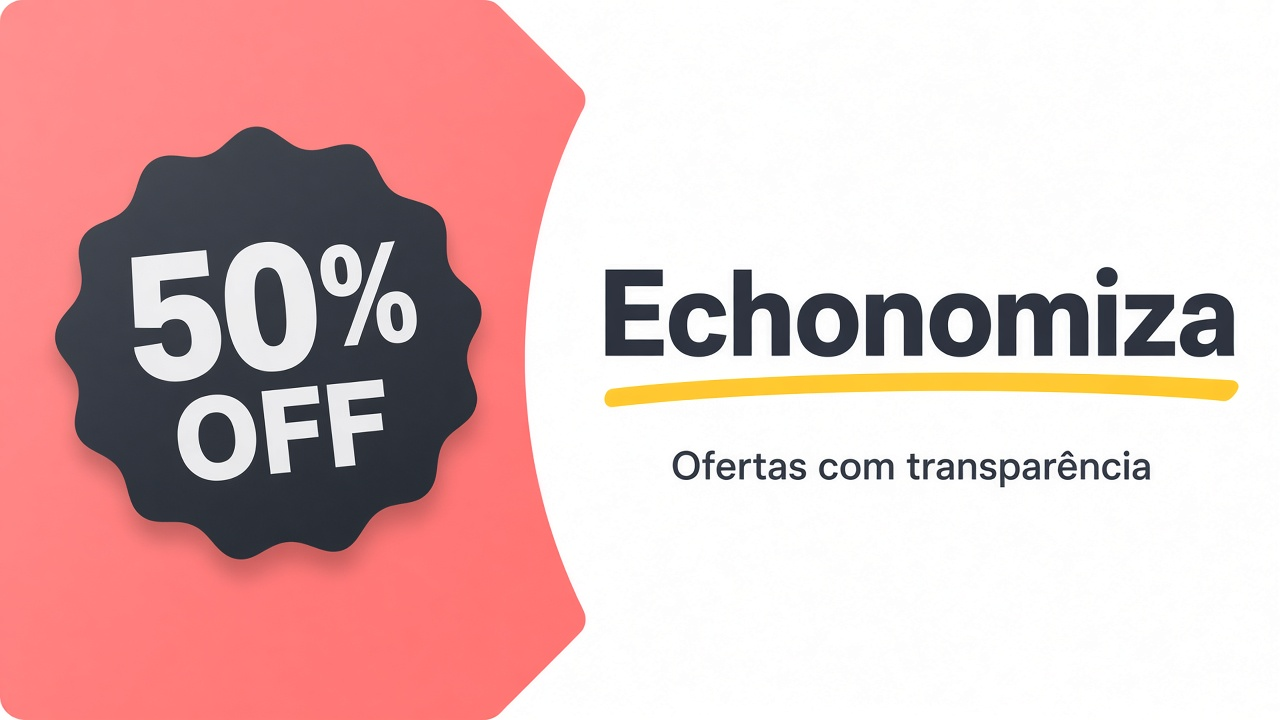
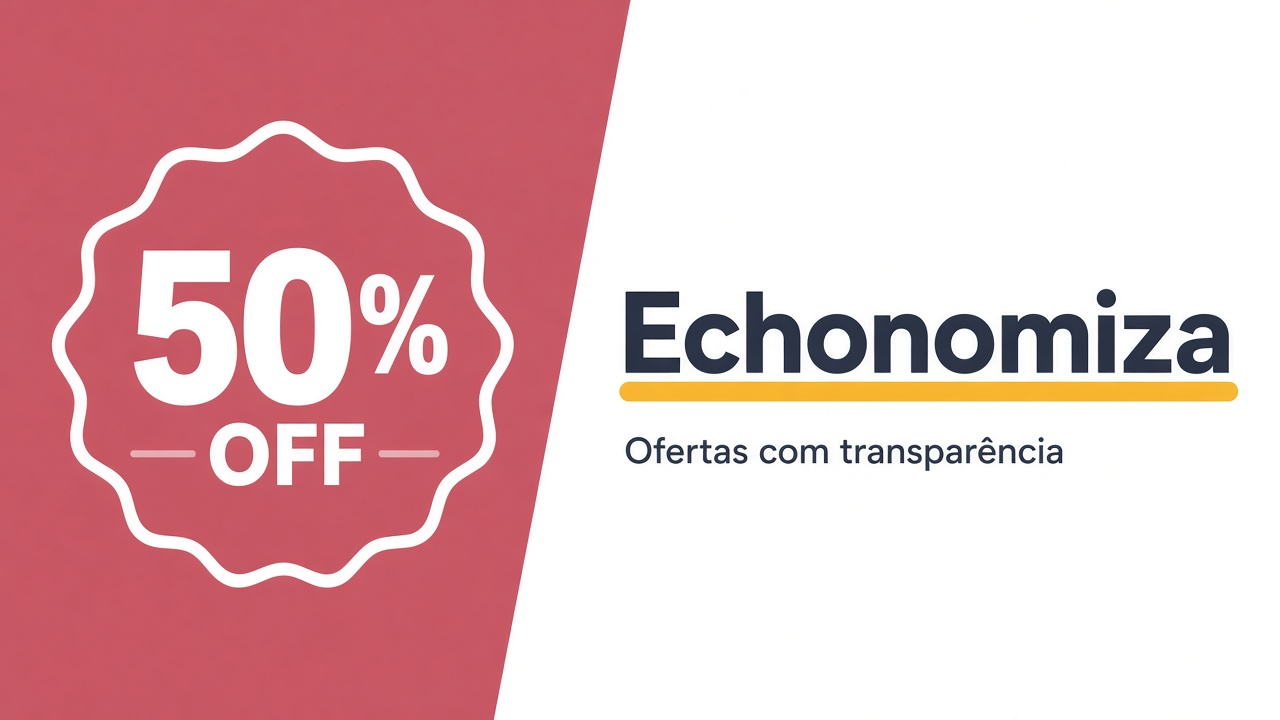
Darken the red brand palette by 30 percent.

diff --git a/frontend/app/page.tsx b/frontend/app/page.tsx
@@ -32,23 +32,23 @@ export default async function HomePage() {
         ]}
       />
 
-      <section className="relative overflow-hidden border-b border-brand-300 bg-white">
+      <section className="relative overflow-hidden border-b border-brand-700 bg-white">
         <div
           aria-hidden
-          className="absolute inset-0 bg-[linear-gradient(135deg,#cf889c_0%,#f08ea4_48%,#fa9fae_100%)]"
+          className="absolute inset-0 bg-[linear-gradient(135deg,#834d5a_0%,#a86373_48%,#b87f8c_100%)]"
         />
         <div
           aria-hidden
-          className="absolute inset-0 opacity-40 bg-[radial-gradient(circle_at_18%_20%,rgba(250,204,21,0.35),transparent_34%),radial-gradient(circle_at_88%_12%,rgba(255,255,255,0.35),transparent_30%)]"
+          className="absolute inset-0 opacity-40 bg-[radial-gradient(circle_at_18%_20%,rgba(250,204,21,0.35),transparent_34%),radial-gradient(circle_at_88%_12%,rgba(255,255,255,0.22),transparent_30%)]"
         />
-        <div className="relative mx-auto flex min-h-[78vh] max-w-6xl flex-col justify-center px-4 py-20 text-neutral-900">
+        <div className="relative mx-auto flex min-h-[78vh] max-w-6xl flex-col justify-center px-4 py-20 text-white">
           <p className="animate-fade-up inline-flex w-fit items-center rounded-md bg-accent-300 px-2.5 py-1 text-xs font-bold uppercase tracking-[0.18em] text-neutral-900">
             Ofertas relâmpago
           </p>
           <h1 className="animate-fade-up-delay mt-4">
-            <BrandMark tone="dark" size="lg" />
+            <BrandMark tone="light" size="lg" />
           </h1>
-          <p className="animate-fade-up-delay-2 mt-5 max-w-xl text-lg leading-relaxed text-neutral-800">
+          <p className="animate-fade-up-delay-2 mt-5 max-w-xl text-lg leading-relaxed text-white/90">
             Descontos reais, ranking de qualidade e links de afiliados com
             transparência — para você clicar com confiança.
           </p>
@@ -63,7 +63,7 @@ export default async function HomePage() {
             <Button
               href="/transparencia"
               variant="secondary"
-              className="border-neutral-800/30 bg-white/50 text-neutral-900 hover:border-neutral-800 hover:bg-white"
+              className="border-white/50 bg-transparent text-white hover:border-accent-300 hover:bg-white/10 hover:text-white"
             >
               Como funcionam os afiliados
             </Button>

diff --git a/frontend/tailwind.config.js b/frontend/tailwind.config.js
@@ -10,19 +10,19 @@ module.exports = {
         sans: ["var(--font-outfit)", "ui-sans-serif", "system-ui", "sans-serif"],
       },
       colors: {
-        // Vermelho vibrante 50% mais claro — banners, % OFF e ofertas relâmpago
+        // Vermelho vibrante (clareado e depois escurecido 30%)
         brand: {
-          50: "#fff8f8",
-          100: "#fff2f2",
-          200: "#fee6e9",
-          300: "#fed2d7",
-          400: "#fdb8c2",
-          500: "#fa9fae",
-          600: "#f08ea4",
-          700: "#de889e",
-          800: "#cf889c",
-          900: "#c4899b",
-          950: "#a6828c",
+          50: "#f8f3f4",
+          100: "#f2e8ea",
+          200: "#e7d3d8",
+          300: "#d8b9c0",
+          400: "#c69aa4",
+          500: "#b87f8c",
+          600: "#a86373",
+          700: "#945765",
+          800: "#834d5a",
+          900: "#72434e",
+          950: "#5c363f",
         },
         // Amarelo quente — cupons, frete grátis e preço novo
         accent: {

diff --git a/frontend/components/ui/Button.tsx b/frontend/components/ui/Button.tsx
@@ -4,14 +4,14 @@ import { cn } from "@/lib/utils";
 type Variant = "primary" | "secondary" | "ghost" | "store";
 
 const variants: Record<Variant, string> = {
-  // Vermelho claro — CTAs com texto escuro para contraste
+  // Vermelho — CTAs
   primary:
-    "bg-brand-600 text-neutral-900 hover:bg-brand-700 shadow-sm shadow-brand-600/25",
+    "bg-brand-600 text-white hover:bg-brand-700 shadow-sm shadow-brand-600/25",
   secondary:
     "border border-neutral-300 bg-white text-neutral-800 hover:border-neutral-500 hover:text-neutral-950",
   ghost: "text-neutral-700 hover:bg-neutral-100",
   store:
-    "bg-brand-600 text-neutral-900 hover:bg-brand-700 shadow-sm shadow-brand-600/20 w-full justify-center",
+    "bg-brand-600 text-white hover:bg-brand-700 shadow-sm shadow-brand-600/20 w-full justify-center",
 };
 
 export function Button({

diff --git a/frontend/app/globals.css b/frontend/app/globals.css
@@ -5,7 +5,7 @@
 :root {
   --background: #ffffff;
   --foreground: #1f2937;
-  --brand: #f08ea4;
+  --brand: #a86373;
   --accent: #facc15;
   --surface: #ffffff;
 }
@@ -13,7 +13,7 @@
 body {
   color: var(--foreground);
   background:
-    radial-gradient(ellipse 70% 45% at 0% -5%, rgba(240, 142, 164, 0.08), transparent),
+    radial-gradient(ellipse 70% 45% at 0% -5%, rgba(168, 99, 115, 0.08), transparent),
     radial-gradient(ellipse 50% 35% at 100% 0%, rgba(250, 204, 21, 0.08), transparent),
     var(--background);
   min-height: 100vh;

diff --git a/frontend/components/ui/Badge.tsx b/frontend/components/ui/Badge.tsx
@@ -4,8 +4,8 @@ type BadgeVariant = "brand" | "discount" | "neutral" | "warning" | "coupon";
 
 const variants: Record<BadgeVariant, string> = {
   brand: "bg-brand-100 text-brand-900",
-  // % OFF — vermelho claro com texto escuro
-  discount: "bg-brand-500 text-neutral-900",
+  // % OFF
+  discount: "bg-brand-600 text-white",
   neutral: "bg-neutral-100 text-neutral-700",
   warning: "bg-neutral-800 text-white",
   coupon: "bg-accent-300 text-neutral-900",

diff --git a/frontend/components/admin/AdminSidebar.tsx b/frontend/components/admin/AdminSidebar.tsx
@@ -42,7 +42,7 @@ export function AdminSidebar() {
               className={cn(
                 "flex items-center gap-3 rounded-lg px-3 py-2.5 text-sm font-medium transition",
                 active
-                  ? "bg-brand-600 text-neutral-900"
+                  ? "bg-brand-600 text-white"
                   : "text-slate-300 hover:bg-slate-900 hover:text-white",
               )}
             >
